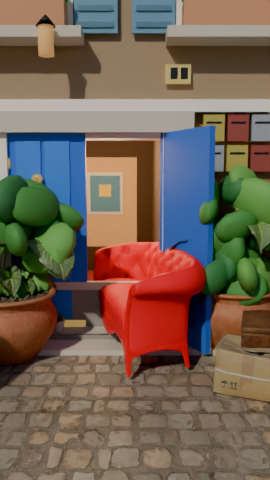
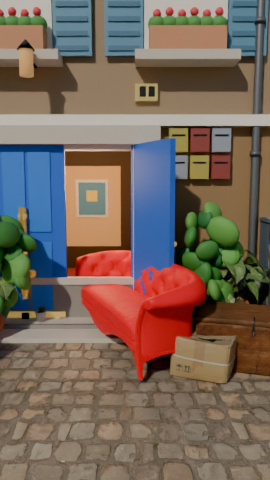
ep020: revisión Director PASA; listo para render local
Claude-Session: https://claude.ai/code/session_01LrSQNzCqj6aM3qn1tHEPiB

diff --git a/anim/episodes/ep020.py b/anim/episodes/ep020.py
@@ -29,15 +29,16 @@ LABEL_STYLE = "big"
 
 N = 72
 WY = 2.0                                   # plano de la fachada (cara exterior)
-TH = -75.0                                 # giro del sofa (largo casi a lo largo de y; frente hacia -x/camara)
+TH = -66.0                                 # giro del sofa (largo casi a lo largo de y; frente hacia -x/camara)
 U = Vector((math.cos(math.radians(TH)), math.sin(math.radians(TH)), 0.0))     # de la punta (dentro) a la trasera (fuera)
-SX, SY, SZ = 1.0, 1.0, 1.3                 # escala del sofa: 1,8 x 0,82 x 0,92 m
+SX, SY, SZ = 1.22, 1.0, 1.15                # escala del sofa: 1,8 x 0,82 x 0,92 m
 HL, HD, HZ = 0.9 * SX, 0.41 * SY, 0.355 * SZ
-TIP = Vector((0.38, WY + 0.55, 0.0))       # punta del sofa encajado (s = 0)
+TIP = Vector((0.36, WY + 0.50, 0.0))
+SMAX = 2.0       # punta del sofa encajado (s = 0)
 LW = 0.78                                  # ancho de cada hoja (portal de -0,7 a 0,7)
 ANG_R = 120.0                              # hoja derecha abierta hacia fuera
-CAM = (0.50, -2.7, 1.65); TGT = (0.50, WY - 0.2, 1.04); LENS = 34.0
-POT_L, POT_R = Vector((-0.80, WY - 0.50)), Vector((1.62, WY - 0.50))
+CAM = (0.80, -2.8, 1.65); TGT = (0.80, WY - 0.2, 1.04); LENS = 31.0
+POT_L, POT_R = Vector((-0.95, WY - 0.50)), Vector((1.85, WY - 0.50))
 
 
 def R(d): return math.radians(d)
@@ -235,8 +236,8 @@ def build_props(S):
     def put(name, res, x, y, h, rot, z=0.0):
         if (name, res) not in cols: cols[(name, res)] = env_real._model(name, res)
         bpy.context.view_layer.update(); return env_real._place_fit(S, cols[(name, res)], (x, y, z), h, R(rot))[0]
-    pot_l = put("potted_plant_02", "1k", POT_L.x, POT_L.y, 1.55, 20)
-    pot_r = put("potted_plant_02", "1k", POT_R.x, POT_R.y, 1.55, 200)
+    pot_l = put("potted_plant_02", "1k", POT_L.x, POT_L.y, 1.0, 20)
+    pot_r = put("potted_plant_02", "1k", POT_R.x, POT_R.y, 1.0, 200)
     lf = [mmat(S, "arbusto%d" % i, c, 0.65) for i, c in enumerate(((0.06, 0.26, 0.05), (0.14, 0.40, 0.08), (0.04, 0.20, 0.06)))]
     grp = {}
     for nm, P_, inst in (("l", POT_L, pot_l), ("r", POT_R, pot_r)):                 # arbusto denso sobre la maceta (esconde lo que hay detras); el grupo se mueve junto
@@ -246,8 +247,8 @@ def build_props(S):
             while True:
                 u, v, w = rnd.uniform(-1, 1), rnd.uniform(-1, 1), rnd.uniform(-1, 1)
                 if u * u + v * v + w * w < 1: break
-            rr = rnd.uniform(0.15, 0.24)
-            O(S, "uv_sphere", "arbusto", lf[i % 3], (P_.x + (0.20 + 0.46 * u) * sx_, P_.y + 0.34 * v, 1.08 + 0.58 * w), (rr * 1.3, rr * 0.55, rr * 0.9),
+            rr = rnd.uniform(0.13, 0.20)
+            O(S, "uv_sphere", "arbusto", lf[i % 3], (P_.x + (0.30 + 0.32 * u) * sx_, P_.y + 0.26 * v, 0.85 + 0.55 * w), (rr * 0.95, rr * 0.45, rr * 0.8),
               (rnd.uniform(-0.6, 0.6), rnd.uniform(-0.6, 0.6), rnd.uniform(0, 6.28)), parent=g, segments=10, ring_count=6)
     put("power_box_01", "1k", -1.05, WY - 0.05, 0.5, 0, z=1.95)            # contador electrico sobre la maceta izquierda
     put("utility_box_01", "1k", 2.55, WY - 0.2, 1.3, 0)
@@ -287,16 +288,16 @@ def build_door(S, E):
     # barra de cerrojo (hoja izquierda fija): soportes fijos + barra deslizante de laton 1 m + empunadura grande
     hL = leaves["izq"]
     bar_root = S.empty("barra_raiz", (0.30, -0.075, 0.0), hL)
-    for zz in (0.60, 1.10, 1.60): O(S, "cylinder", "soporte_barra", brass, (0, 0, zz), (0.045, 0.045, 0.04), (R(90), 0, 0), bar_root)
+    for zz in (0.45, 0.85, 1.25): O(S, "cylinder", "soporte_barra", brass, (0, 0, zz), (0.045, 0.045, 0.04), (R(90), 0, 0), bar_root)
     box(S, "enchufe_suelo", iron, -0.04, 0.04, -0.035, 0.0, 0.0, 0.12, bar_root)
     slide = S.empty("barra_desliza", (0, 0, 0), bar_root)
-    O(S, "cylinder", "barra", shine, (0, 0, 1.1), (0.042, 0.042, 0.52), parent=slide, vertices=20)
-    O(S, "cylinder", "barra_punta", shine, (0, 0, 0.55), (0.030, 0.030, 0.06), parent=slide, vertices=12)
-    O(S, "cylinder", "agarre", shine, (0.0, -0.075, 0.78), (0.02, 0.02, 0.11), (0, R(90), 0), slide, vertices=12)
-    O(S, "uv_sphere", "agarre_bola_i", shine, (-0.11, -0.075, 0.78), (0.045,) * 3, parent=slide); O(S, "uv_sphere", "agarre_bola_d", shine, (0.11, -0.075, 0.78), (0.045,) * 3, parent=slide)
-    box(S, "agarre_pata", shine, -0.012, 0.012, -0.075, -0.02, 0.76, 0.80, slide)
+    O(S, "cylinder", "barra", shine, (0, 0, 0.85), (0.042, 0.042, 0.50), parent=slide, vertices=20)
+    O(S, "cylinder", "barra_punta", shine, (0, 0, 0.35), (0.030, 0.030, 0.06), parent=slide, vertices=12)
+    O(S, "cylinder", "agarre", shine, (0.0, -0.075, 0.60), (0.02, 0.02, 0.11), (0, R(90), 0), slide, vertices=12)
+    O(S, "uv_sphere", "agarre_bola_i", shine, (-0.11, -0.075, 0.60), (0.045,) * 3, parent=slide); O(S, "uv_sphere", "agarre_bola_d", shine, (0.11, -0.075, 0.60), (0.045,) * 3, parent=slide)
+    box(S, "agarre_pata", shine, -0.012, 0.012, -0.075, -0.02, 0.58, 0.62, slide)
     # destello de revelacion (dos barritas cruzadas, invisibles hasta la animacion)
-    gl = mmat(S, "destello", (1, 1, 0.9), 0.1, 0.0, ((1, 0.95, 0.7), 8.0)); glint = S.empty("destello", (0.0, -0.20, 1.45), hL); glint.scale = (0, 0, 0)
+    gl = mmat(S, "destello", (1, 1, 0.9), 0.1, 0.0, ((1, 0.95, 0.7), 8.0)); glint = S.empty("destello", (0.0, -0.20, 1.10), hL); glint.scale = (0, 0, 0)
     for r in (0, 45, 90, 135): O(S, "cube", "rayo", gl, (0, 0, 0), (0.18, 0.006, 0.006), (0, R(r), 0), glint)
     return dict(leaves=leaves, slide=slide, glint=glint, bar_root=bar_root)
 
@@ -340,11 +341,7 @@ def damp(t, k=0.20, w=0.9): return math.exp(-k * t) * math.cos(w * t) if t >= 0 
 
 # ------------------------------------------------------------------ hombre
 def new_man(S, uses, x, y, yaw):
-    a = MixamoActor(S, x=x, yaw=yaw, use=uses); klunk(a, seed=23)
-    for o in a.meshes:
-        n = o.name.split(".")[0]
-        if n == "Ch01_Shirt": klunk_toon._flat(o, klunk_toon._mat("toon_camisa", (0.04, 0.42, 0.22), 0.8, 0.2))
-        if n == "Ch01_Pants": klunk_toon._flat(o, klunk_toon._mat("toon_pantalon_k", (0.62, 0.50, 0.30), 0.8, 0.2))
+    a = MixamoActor(S, x=x, yaw=yaw, use=uses); klunk(a)
     S.key(a.root, 1, loc=(x, y, 0.0), rot=(0, 0, R(yaw)), interp="LINEAR")
     return a
 
@@ -366,11 +363,14 @@ def setup(S):
     _E[0] = stage(S); P = build_props(S); sofa = build_sofa(S); Dr = build_door(S, _E[0]); return P, sofa, Dr
 
 
-def cam_keys(S, shake=None, focus=None, n=N + 10):
+def cam_keys(S, shake=None, focus=None, n=N + 10, lens=None, cx=None, tx=None):
     bpy.context.preferences.edit.keyframe_new_interpolation_type = "LINEAR"
     for f in range(1, n + 1):
         sh = shake(f) if shake else (0.0, 0.0)
-        S.cam.location = (CAM[0] + sh[0], CAM[1], CAM[2] + sh[1]); S.cam.keyframe_insert("location", frame=f)
+        c = cx(f) if cx else CAM[0]; t = tx(f) if tx else TGT[0]
+        S.cam.location = (c + sh[0], CAM[1], CAM[2] + sh[1]); S.cam.keyframe_insert("location", frame=f)
+        S.tgt.location = (t, TGT[1], TGT[2]); S.tgt.keyframe_insert("location", frame=f)
+        S.cam.data.lens = lens(f) if lens else LENS; S.cam.data.keyframe_insert("lens", frame=f)
         S.cam.data.dof.focus_distance = focus(f) if focus else 3.1; S.cam.data.dof.keyframe_insert("focus_distance", frame=f)
 
 
@@ -500,7 +500,7 @@ def l3(S):
         if f >= f_wob: t = f - f_wob; r = 92.0 + 34.0 * math.sin(math.pi * min(1.0, t / 8.0)) * (1.0 if t < 8 else 0.0) + (-0 if t < 8 else 0.0)
         if f >= f_wob + 8: t = f - (f_wob + 8); r = 92.0 + 6.0 * damp(t, 0.22, 0.9)
         return r
-    def s_of(f): return 0.05 + 0.95 * seg01(f, f_in0, f_in1) if f < f_wob else 1.0
+    def s_of(f): return 0.05 + 1.35 * seg01(f, f_in0, f_in1) if f < f_wob else 1.4
     def dyaw(f):
         t = f - f_wob
         return 12.0 * math.sin(math.pi * min(1.0, t / 8.0)) if 0 <= t < 8 else (4.0 * damp(t - 8, 0.2, 0.8) if t >= 8 else 0.0)
@@ -539,7 +539,7 @@ def l4(S):
     hl = hand_offset(S, a, (4,))
     p0 = push_root(S, a, hl, 0.02); LEAF = Vector((0.95, WY - 1.35))                # junto al borde libre de la hoja abierta (a su lado)
     pushpos = lambda f: push_root(S, a, hl, s_of(f), lunge=0.0)
-    def s_of(f): return 0.02 if f < f_push else 0.02 + 1.33 * seg01(f, f_push + 2, f_push + 16)
+    def s_of(f): return 0.02 if f < f_push else 0.02 + SMAX * seg01(f, f_push + 2, f_push + 16)
     pts = [(1, p0.x, p0.y, PSI), (f_r0, p0.x, p0.y, PSI), (f_r0 + 1, p0.x, p0.y, 70.0), (f_r1, LEAF.x, LEAF.y, 150.0), (f_lean, LEAF.x, LEAF.y, 150.0)]
     pb = push_root(S, a, hl, 0.02)
     pts += [(f_lean + 1, LEAF.x, LEAF.y, 250.0), (f_b1, pb.x, pb.y, PSI), (f_push + 18, push_root(S, a, hl, s_of(f_push + 18)).x, push_root(S, a, hl, s_of(f_push + 18)).y, PSI),
@@ -557,7 +557,7 @@ def l4(S):
         if f < f_off - 2: ang, pos, tilt = ANG_R, (LW, WY - 0.03, 0.05), 0.0
         elif f < f_off + 2: u = seg01(f, f_off - 2, f_off + 2); ang, pos, tilt = ANG_R, (LW, WY - 0.03, 0.05 + 0.08 * u), 0.0
         else:
-            u = seg01(f, f_off + 2, f_lean); ang = lerp(ANG_R, 172.0, u); pos = (lerp(LW, 1.62, u), lerp(WY - 0.03, WY - 0.08, u), lerp(0.13, 0.05, u)); tilt = -5.0 * u
+            u = seg01(f, f_off + 2, f_lean); ang = lerp(ANG_R, 172.0, u); pos = (lerp(LW, 0.95, u), lerp(WY - 0.03, WY - 0.10, u), lerp(0.13, 0.05, u)); tilt = -7.0 * u
         S.key(hR, f, loc=pos, rot=(R(tilt), 0, R(ang)), interp="LINEAR")
     pin = mmat(S, "pasador", (1.0, 0.72, 0.2), 0.2, 1.0)
     for i, zz in enumerate((0.35, 1.05)):                                      # pasadores de las bisagras que saltan
@@ -606,7 +606,7 @@ def l5(S):
         u = seg01(f, f_open, f_open + 11); e = u + 0.04 * math.sin(math.pi * u)            # pequeño sobreimpulso
         leaf_keys(S, Dr, f, 160.0 * e, lerp(ANG_R, 160.0, e))
     # sofa: encajado hasta que se abren las hojas; entonces entra sin rozar
-    def s_of(f): return 0.02 + 0.013 * math.sin(f * 2.8) * (1 if f < f_th0 else 0) + 1.33 * seg01(f, f_pass, f_pass + 12)
+    def s_of(f): return 0.02 + 0.013 * math.sin(f * 2.8) * (1 if f < f_th0 else 0) + SMAX * seg01(f, f_pass, f_pass + 12)
     for f in range(1, N + 12): sofa_key(S, sofa, f, s=s_of(f), dyaw=-3.0 * seg01(f, f_pass - 2, f_pass + 6))
     S.cue("huh", f_th0 - 2, vol=-8); S.cue("hmm", f_th0 + 6, vol=-7); S.cue("huh", f_r0 - 4, vol=-6); S.cue("whoosh", f_r0 + 1, vol=-6)
     S.cue("clunk", f_kick, vol=-1); S.cue("hit", f_kick, vol=-4); S.cue("whoosh", f_kick + 2, vol=-6); S.cue("pop", f_kick + 6, vol=-5)
@@ -615,7 +615,10 @@ def l5(S):
     S.f = N; a.verify(S.f)
     faces(a, [(1, "enfado", 0.5), (f_th0 + 6, "neutra", 1.0), (f_r0 - 6, "sorpresa", 0.8), (f_r0 + 4, "neutra", 0.8), (f_kick, "enfado", 0.8), (f_kick + 7, "sorpresa", 1.0),
               (f_pull, "neutra", 1.0), (f_open, "sorpresa", 0.7), (f_pass + 6, "feliz", 1.0)], N, first_blink=14, every=36)
-    cam_keys(S)
+    w1, w2, w3, w4 = f_kick + 2, f_kick + 8, f_pull + 2, f_open + 6
+    def zoom(f): return seg01(f, w1, w2) * (1 - seg01(f, w3, w4))
+    cam_keys(S, lens=lambda f: lerp(LENS, 52.0, zoom(f)) - 4.0 * seg01(f, w4, w4 + 6), cx=lambda f: lerp(CAM[0], -0.25, zoom(f)) - 0.3 * seg01(f, w4, w4 + 6),
+             tx=lambda f: lerp(CAM[0], -0.55, zoom(f)) - 0.3 * seg01(f, w4, w4 + 6), focus=lambda f: lerp(3.1, 3.4, zoom(f)))
     return a
 
 

diff --git a/stories/story-023/reviews/anim-check.md b/stories/story-023/reviews/anim-check.md
@@ -22,3 +22,10 @@ Fachada de geometria (ocre/crema con textura PBR), portal de piedra con montante
 - Hoja izquierda abierta a 160 grados queda casi fuera de cuadro (borde izquierdo); camion al fondo apenas asoma por el borde derecho (la fachada lo tapa).
 - Arbustos de las macetas son primitivas (aspecto de hojas lisas), aceptable a esta distancia.
 - Efectos de sonido solo anotados con S.cue (huh, boing, hit, oof, creak, clunk, bell, tada, etc.). No se ha renderizado el montaje completo ni el audio.
+
+## Ronda 2 (correcciones del Director, 16+1 fotogramas re-renderizados y mirados)
+- Protagonista fijo restaurado (camiseta de rayas naranja/blanca, vaqueros, zapatillas rojas; klunk por defecto).
+- Sofa de 3 plazas (~2,2 m) encajado en diagonal desde el fotograma 1, claramente mas largo que el hueco (0,78 m).
+- Macetas ~70 % y mas estrechas: se ve el marco y el atasco; camara desplazada a la derecha.
+- N4: hoja desmontada apoyada en la pared a la derecha y hueco libre (n4_c).
+- N5: zoom a la barra de laton al apartar la maceta (n5_b1_barra); plano abierto con las dos hojas abiertas y sofa pasando (n5_b2, n5_c). La hoja izquierda queda en cuadro.

diff --git a/stories/story-023/reviews/director-visual.md b/stories/story-023/reviews/director-visual.md
@@ -8,3 +8,9 @@ Hoja: scratchpad/ep020_sheet.jpg (16 fotogramas).
 3. Las macetas son enormes y tapan media puerta en todos los planos: redúcelas (~70 % del tamaño) para que se vea bien el marco y el atasco; siguen simétricas.
 4. Nivel 4: que se vea claramente la hoja DESMONTADA apoyada en la pared y el hueco sin puerta.
 5. Nivel 5: la barra de latón debe verse grande y brillante en primer plano cuando aparta la maceta; luego plano que muestre las DOS hojas abiertas de par en par (hoja izquierda dentro de cuadro) y el sofá pasando holgado.
+
+# Ronda 2: PASA
+- Protagonista fijo restaurado (rayas naranjas, vaqueros, zapatillas rojas).
+- Sofá largo rojo encajado en diagonal desde el f1: se lee el atasco. Macetas más pequeñas: se ve el marco.
+- Nivel 4: hueco sin hoja. Nivel 5: barra de latón en primer plano y luego las dos hojas abiertas con el sofá dentro.
+- Aviso menor: empuja de espaldas en 1-4 (la cara se ve en pausas y remates); aceptable.
